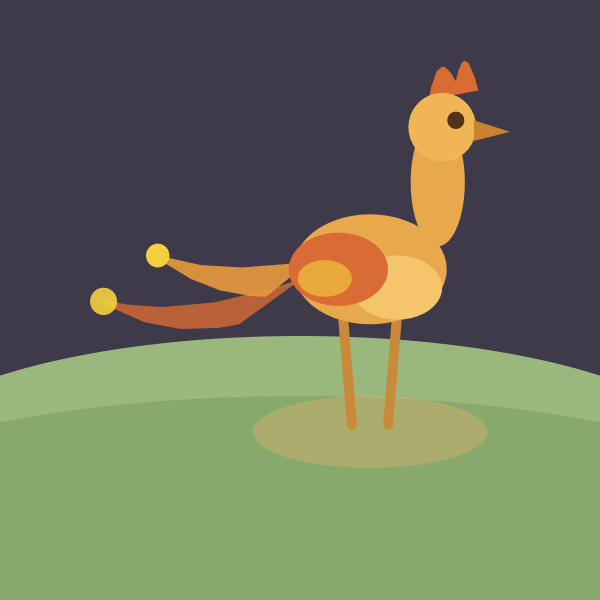
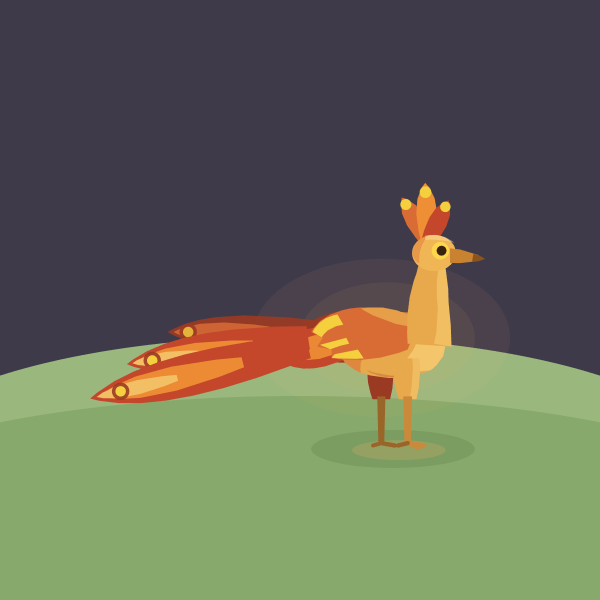
docs+art: M14 guide portraits recaptured from the rebuilt rigs; CLAUDE.md M14 status and the user's review-gate waiver
Claude-Session: https://claude.ai/code/session_017XXWtbJGTqDh1qHchhit8r

Changed region(s): [[0.15, 0.09, 0.84, 0.78]]

diff --git a/CLAUDE.md b/CLAUDE.md
@@ -180,15 +180,22 @@ v1 (two open tabs overwrite each other's timeline harmlessly).
   capped at 60 families × 40 entries; save v3 carries it; `?season=`/`?moon=full`
   preview overrides; its review also fixed a pre-existing DPR-2 bug — Pixi 8 renderer
   width is already CSS px, so postcard crop, audio view centre and glyph culling were
-  halved on phones; 289 tests).
+  halved on phones; 289 tests), M14 (Rig-art pass, 2026-10-10: the remaining eight
+  rigs — squirrel, frog, turtle, duck, owl, dodo, phoenix, koi — rebuilt to the
+  rig-art recipe (path silhouettes, one primary + secondary field marks, three-tone
+  shading, far-side limbs, articulated species-true gaits, real closed-eye sleeps);
+  every rig now follows the recipe; guide portraits recaptured; dev `?portrait=`
+  route takes `&pose=<clip>&t=<0..1>` for clip review; 289 tests).
 - **Status: M13 complete and deployed (2026-08-22), still awaiting the
   user's live review** — all four M13 threads above are implemented,
   tested (full suite incl. the 6-seed + 100-day-soak balance property
   suite), merged to main, and live at the URL below — including a
   whole-branch fix wave that closed one critical (a leash/feed-hold code
   path that could silently corrupt an in-progress mourning vigil) and five
-  important findings surfaced by the milestone's own final review. Do not
-  start v2 Caretaker World or M14 until the user's M13 review happens.
+  important findings surfaced by the milestone's own final review.
+  **2026-10-10: the user waived the per-milestone live-review gate** ("continue and
+  don't ask me to check anything, you proceed in your way") — milestones now proceed
+  on controller rulings + agent/opus review gates + deploy, without pausing to ask.
   **G1 (Findable) merged to main and deployed (2026-08-23)**, awaiting
   the user's live review alongside M13's. **P1 (First Impressions) merged
   to main and deployed (2026-09-19)**, awaiting the user's live review
@@ -205,17 +212,14 @@ v1 (two open tabs overwrite each other's timeline harmlessly).
   **G4 (Return rhythm) merged to main and deployed (2026-09-26)**, awaiting the
   user's live review. Known limit: a very long catch-up can outrun the 500-entry
   event log, so the journal may miss a few moments from deep offline stretches.
-- **M14 candidates (deferred out of M13 scope, per the user's own decision
-  recorded in this milestone's plan):** (1) feeding still reads as one
+- **M14 shipped the rig-art pass (2026-10-10, spec
+  `docs/superpowers/specs/2026-10-10-m14-rig-art-pass.md`). Still deferred from the
+  M13 candidate list:** (1) feeding still reads as one
   mechanism tuned per species rather than each species' real behavior — not
   yet root-caused; needs a session to actually watch multiple species feed
   side by side and identify specifically what reads as same-y before scoping
   a fix, the way M12's brainstorm broke "recognizable" into four checkable
-  dimensions rather than guessing; (2) apply the reviewed rig-art recipe
-  (docs/superpowers/specs/2026-08-21-rig-art-recipe.md) to the remaining
-  eight species (squirrel's nursing gesture is now done via M13 — the rest of
-  its recipe pass, plus frog, turtle, duck, owl, dodo, phoenix, koi, are
-  still outstanding). **Backlog item (pre-existing, out of scope, not
+  dimensions rather than guessing; (2) ~~rig-art recipe for the remaining eight~~ — done in M14. **Backlog item (pre-existing, out of scope, not
   blocking):** kangaroo population hardCap (8) and SHADE_SCRAPES home-site
   count (3) are mismatched (predates M12, explicitly ruled out of scope again
   in M13 per pouch-carry/mount work being independent of home-site balance) —

diff --git a/docs/superpowers/specs/2026-08-21-rig-art-recipe.md b/docs/superpowers/specs/2026-08-21-rig-art-recipe.md
@@ -1,7 +1,7 @@
 # The rig art recipe — how a Beastoria creature becomes recognizable
 
 **Status:** written and proven on the rabbit in M12 task 6. Applied to deer / robin / kangaroo in
-M12 task 7. The remaining eight species follow in M13.
+M12 task 7. The remaining eight species (squirrel, frog, turtle, duck, owl, dodo, phoenix, koi) were rebuilt to it in M14 (2026-10-10), so every rig in the valley now follows it.
 
 **Scope:** this document is the checklist for rebuilding any `src/rigs/*Rig.ts`. It changes no
 code outside the rig files — **no format change**: `ShapeFill` stays flat `{ color, alpha? }`,
